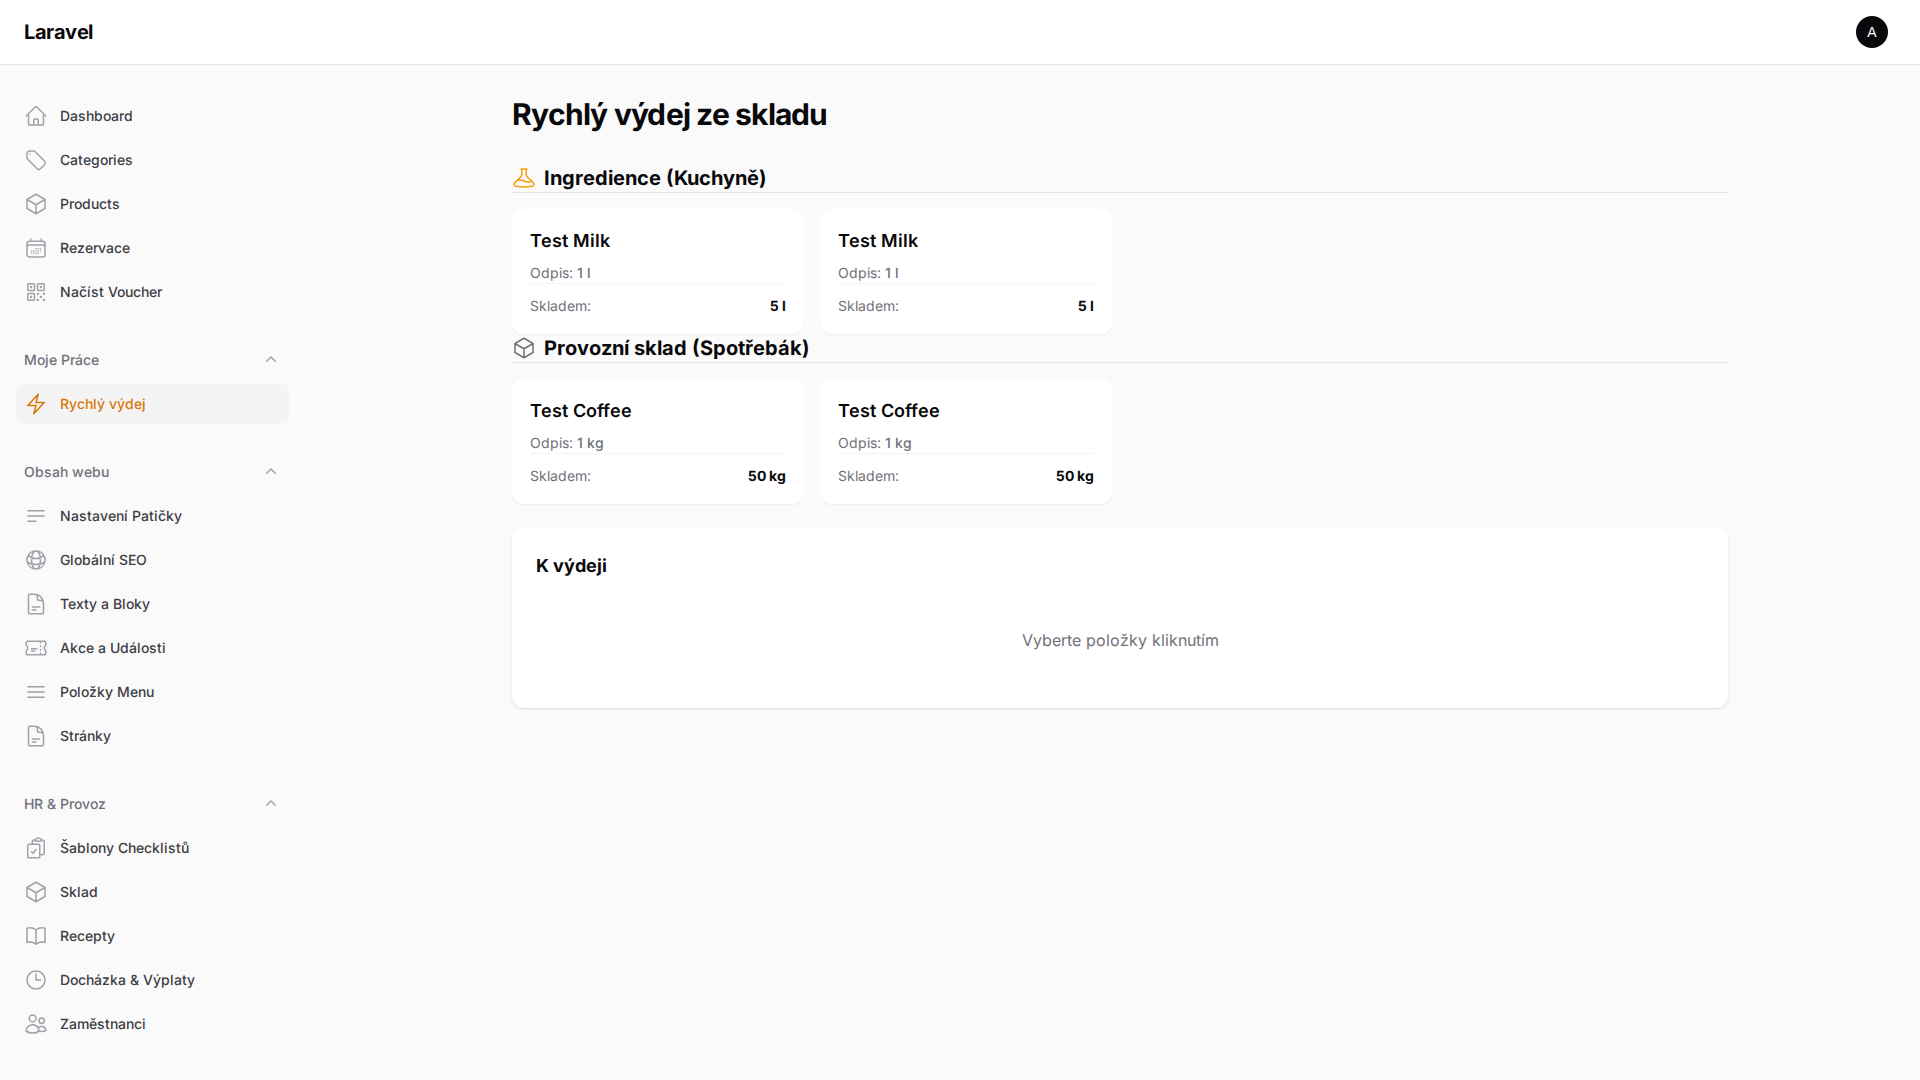
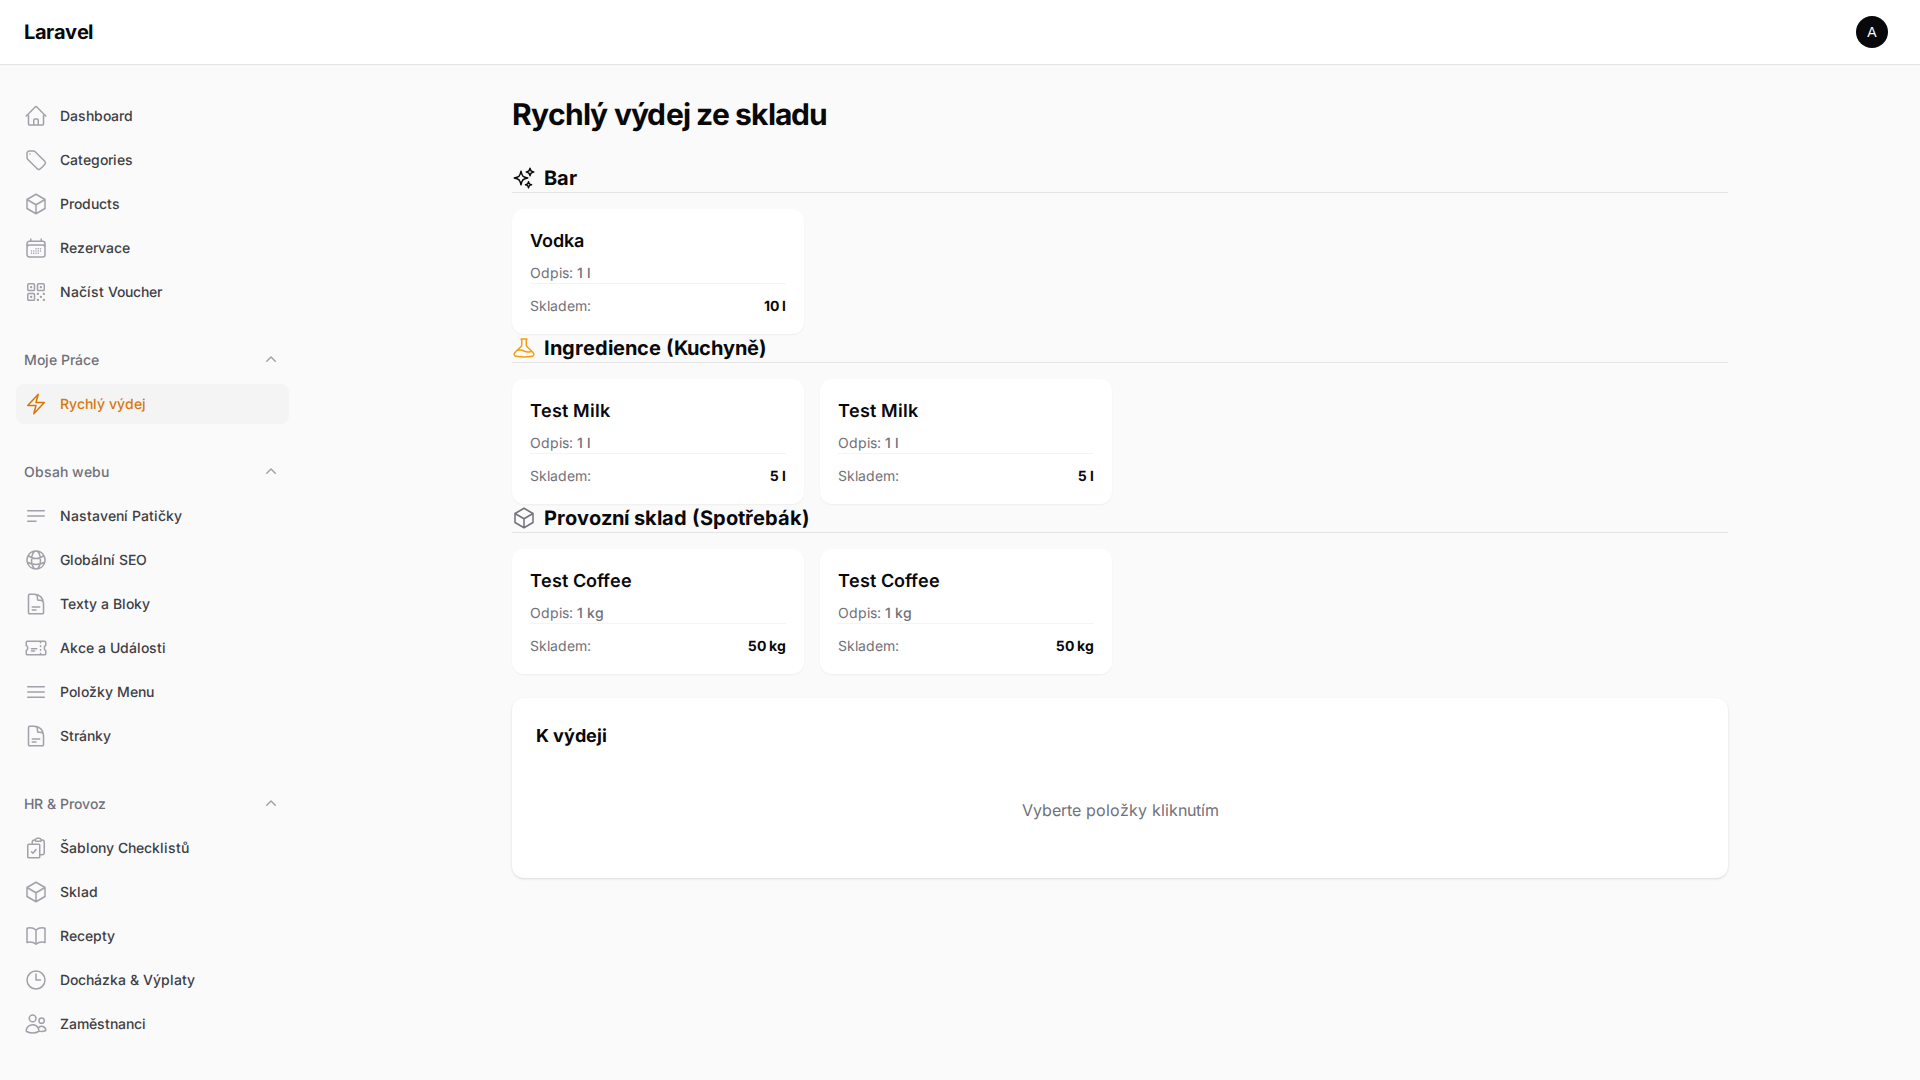
feat: add 'Bar' category to inventory system

diff --git a/app/Filament/Resources/InventoryItemResource.php b/app/Filament/Resources/InventoryItemResource.php
@@ -37,6 +37,7 @@ class InventoryItemResource extends Resource
                             ->label('Kategorie')
                             ->options([
                                 'ingredient' => 'Ingredience (Kuchyně)',
+                                'bar' => 'Bar',
                                 'operational' => 'Provozní sklad (Spotřebák)',
                             ])
                             ->required(),
@@ -94,10 +95,12 @@ class InventoryItemResource extends Resource
                     ->badge()
                     ->color(fn (string $state): string => match ($state) {
                         'ingredient' => 'info',
+                        'bar' => 'warning',
                         'operational' => 'gray',
                     })
                     ->formatStateUsing(fn (string $state): string => match ($state) {
                         'ingredient' => 'Ingredience',
+                        'bar' => 'Bar',
                         'operational' => 'Provozní',
                         default => $state,
                     })
@@ -140,6 +143,7 @@ class InventoryItemResource extends Resource
                     ->label('Kategorie')
                     ->options([
                         'ingredient' => 'Ingredience',
+                        'bar' => 'Bar',
                         'operational' => 'Provozní',
                     ]),
             ])

diff --git a/resources/views/filament/pages/fast-write-off.blade.php b/resources/views/filament/pages/fast-write-off.blade.php
@@ -13,6 +13,9 @@
                         @if($category === 'ingredient')
                             <x-heroicon-o-beaker class="w-6 h-6 text-primary-500"/>
                             <span>Ingredience (Kuchyně)</span>
+                        @elseif($category === 'bar')
+                            <x-heroicon-o-sparkles class="w-6 h-6 text-yellow-500"/>
+                            <span>Bar</span>
                         @else
                             <x-heroicon-o-cube class="w-6 h-6 text-gray-500"/>
                             <span>Provozní sklad (Spotřebák)</span>
